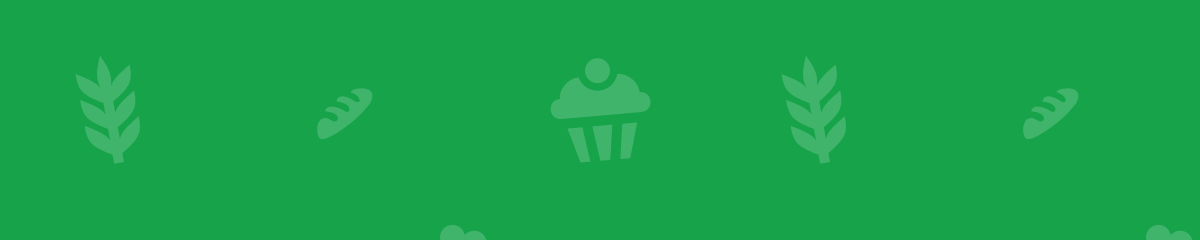
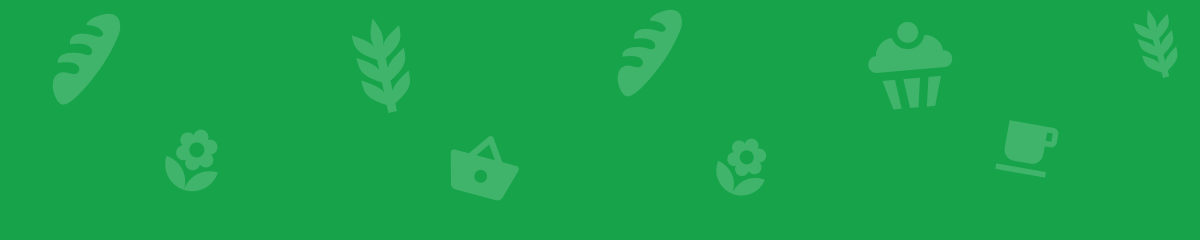
fix pattern header.png

diff --git a/scripts/generate-email-pattern.ts b/scripts/generate-email-pattern.ts
@@ -1,8 +1,8 @@
 #!/usr/bin/env bun
-// Generates the email-header PNG from the auth pattern source.
-// Run via: bun run email:gen-pattern
-// Output: static/email-assets/pattern-header.png (~1200×240 @ 2x retina)
-import { authPattern } from '../src/lib/storefront/auth-pattern';
+// Generates the email-header PNG using a hand-authored layout tuned for the
+// email header's 5:1 aspect ratio. Run via: bun run email:gen-pattern
+// Output: static/email-assets/pattern-header.png (1200×240 @ 2x retina)
+import { PATHS } from '../src/lib/storefront/auth-pattern';
 import sharp from 'sharp';
 import { mkdir, writeFile } from 'node:fs/promises';
 import { dirname } from 'node:path';
@@ -10,34 +10,53 @@ import { dirname } from 'node:path';
 const OUTPUT_PATH = 'static/email-assets/pattern-header.png';
 
 // Target: 1200×240 (2x retina for 600×120 email header).
-// The auth pattern's natural tile is 353×202; we wrap it in an SVG canvas
-// sized to 600×120 (1x), then sharp scales to 2x on rasterization.
 const CANVAS_W = 600;
 const CANVAS_H = 120;
 const SCALE = 2;
+const GREEN = '#16a34a';
+
+// Hand-tuned layout for the email header's 5:1 aspect ratio.
+// All 6 icon types are represented; some appear twice (intentional —
+// repetition is what makes a pattern feel like wallpaper, not a chart).
+// Big anchors (scale 2.0–2.2) on the "top row" (y: 6–12),
+// mediums (scale 1.4–1.6) on the "bottom row" (y: 55–62).
+// Rotation range -15° to +22° gives more variety than the auth tile.
+type IconPlacement = {
+	name: keyof typeof PATHS;
+	x: number;
+	y: number;
+	scale: number;
+	rotation: number;
+};
+
+const PLACEMENTS: IconPlacement[] = [
+	{ name: 'bread', x: 15, y: 8, scale: 2.1, rotation: -8 },
+	{ name: 'plant', x: 85, y: 58, scale: 1.5, rotation: 18 },
+	{ name: 'wheat', x: 160, y: 12, scale: 2.2, rotation: -12 },
+	{ name: 'basket', x: 228, y: 60, scale: 1.6, rotation: 15 },
+	{ name: 'bread', x: 298, y: 6, scale: 2.0, rotation: -8 },
+	{ name: 'plant', x: 362, y: 62, scale: 1.4, rotation: 22 },
+	{ name: 'cupcake', x: 428, y: 10, scale: 2.1, rotation: -5 },
+	{ name: 'coffee', x: 500, y: 55, scale: 1.4, rotation: 10 },
+	{ name: 'wheat', x: 555, y: 8, scale: 1.6, rotation: -15 }
+];
+
+function renderIcon(p: IconPlacement): string {
+	const path = PATHS[p.name];
+	return `<g transform="translate(${p.x}, ${p.y}) scale(${p.scale}) rotate(${p.rotation})"><path d="${path}"/></g>`;
+}
 
 async function main() {
-	// auth-pattern.render returns the full <svg>...</svg> tile as a string.
-	const innerSvg = authPattern.render('#ffffff');
+	const icons = PLACEMENTS.map(renderIcon).join('');
 
-	// Strip the outer <svg ...> wrapper so we can embed the inner content
-	// inside a <pattern> definition.
-	const inner = innerSvg.replace(/^<svg[^>]*>/, '').replace(/<\/svg>\s*$/, '');
-
-	// Wrap as a tiling pattern on a green-filled canvas.
-	const wrappedSvg = `<svg xmlns="http://www.w3.org/2000/svg" width="${CANVAS_W}" height="${CANVAS_H}" viewBox="0 0 ${CANVAS_W} ${CANVAS_H}">
-		<defs>
-			<pattern id="p" x="0" y="0" width="353" height="202" patternUnits="userSpaceOnUse">
-				<svg width="353" height="202" viewBox="0 0 353 202" fill="#ffffff" fill-opacity="0.18">${inner}</svg>
-			</pattern>
-		</defs>
-		<rect width="${CANVAS_W}" height="${CANVAS_H}" fill="#16a34a"/>
-		<rect width="${CANVAS_W}" height="${CANVAS_H}" fill="url(#p)"/>
+	const svg = `<svg xmlns="http://www.w3.org/2000/svg" width="${CANVAS_W}" height="${CANVAS_H}" viewBox="0 0 ${CANVAS_W} ${CANVAS_H}">
+		<rect width="${CANVAS_W}" height="${CANVAS_H}" fill="${GREEN}"/>
+		<g fill="#ffffff" fill-opacity="0.18">${icons}</g>
 	</svg>`;
 
 	await mkdir(dirname(OUTPUT_PATH), { recursive: true });
 
-	const pngBuffer = await sharp(Buffer.from(wrappedSvg))
+	const pngBuffer = await sharp(Buffer.from(svg))
 		.resize(CANVAS_W * SCALE, CANVAS_H * SCALE)
 		.png({ compressionLevel: 9 })
 		.toBuffer();

diff --git a/src/lib/storefront/auth-pattern.ts b/src/lib/storefront/auth-pattern.ts
@@ -27,7 +27,7 @@ export type AuthPattern = {
 	render: (color: string) => string;
 };
 
-const PATHS = {
+export const PATHS = {
 	bread:
 		'M5 22c-1.32 0-1.85-2.36-1.96-3.3a5.56 5.56 0 0 1 .32-2.7a2.5 2.5 0 0 1 1.87-1.62c1.17-.2 2 .5 3.06.74a1.21 1.21 0 0 0 1.56-1.37C9.41 12.03 6.28 12 5 12c0-1.86 2.04-2.1 3.5-1.96a10.8 10.8 0 0 1 2.54.56c.5.17 1.08.6 1.63.56c.83-.07 1-.93.64-1.56C12.44 8.12 9.97 8 8.5 8c0-2 1.73-2.38 3.39-2.08a11.6 11.6 0 0 1 2.49.79c.51.22 1.12.64 1.68.45c1.44-.44-.06-1.98-.7-2.35a6.6 6.6 0 0 0-1.42-.58c-.54-.16-1.2-.1-.71-.73a5.13 5.13 0 0 1 2.73-1.24c1.89-.44 4.5-.52 4.96 1.86a5.3 5.3 0 0 1-.85 3.58a39 39 0 0 1-6.85 8.63a36.6 36.6 0 0 1-4.6 3.99C7.62 21.04 6.3 22 5 22',
 	cupcake: